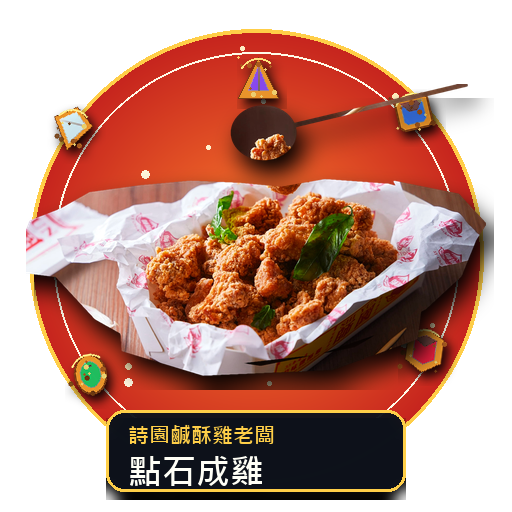
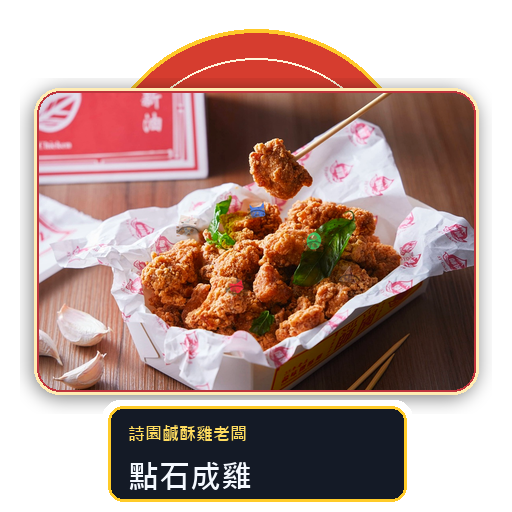
Update Shiyuan skill visuals

diff --git a/index.html b/index.html
@@ -2658,7 +2658,7 @@ const HERO_SHOWCASE = {
   willsmith:'willsmith_帽子歪了，請戴正.png', DV:'dv_你還愛我嗎.png',
   shiyuan:'shiyuan_點石成雞.png',
 };
-const HERO_CUTOUT = {DV:'dv_phase2_cutout.png', shiyuan:'shiyuan_cutout.png'};
+const HERO_CUTOUT = {DV:'dv_phase2_cutout.png', shiyuan:'shiyuan_stall_cutout.png'};
 
 function heroImgSrc(key) {
   if (key === 'DV') return 'heros/DVPF_avatar.jpg';
@@ -3378,7 +3378,7 @@ window.confirmShiyuanFryGem = function(playerIdx, targetIdx, col) {
   document.getElementById('hero-skill-confirm')?.remove();
   runConfirmedHeroSkill(playerIdx, () => doShiyuanFryGem(playerIdx, targetIdx, col), {
     showcaseFile:'shiyuan_點石成雞.png',
-    cutoutFile:'shiyuan_cutout.png'
+    cutoutFile:'shiyuan_stall_cutout.png'
   });
 };
 
